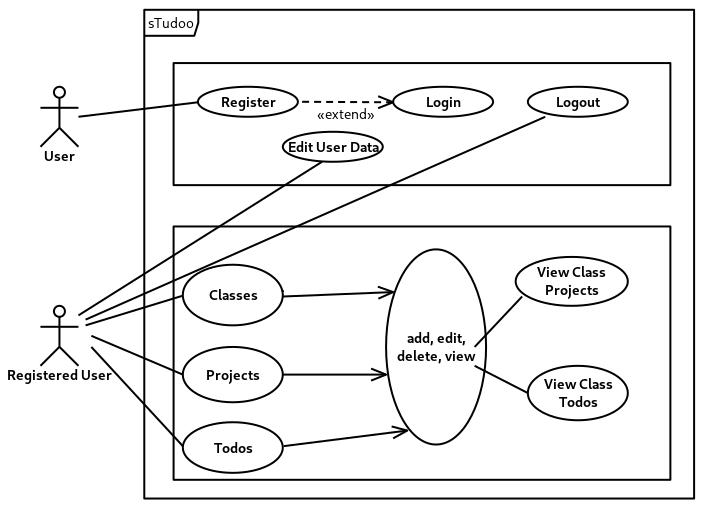
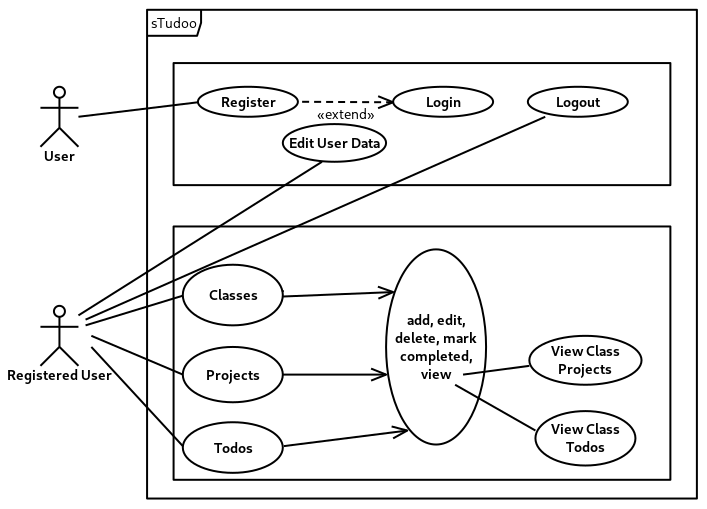
Change ucd image and add 'mark as completed'

diff --git a/docs/technical-docs/app-structure.md b/docs/technical-docs/app-structure.md
@@ -25,7 +25,14 @@ To get a big picture of the functions lets take a look at the use case diagram o
 
 ![Use Case Diagram of sTudoo](/diagrams/Studoo_Features.png)
 
-To use the full functionality it is is necessary for a user to register an login. After the registration an the login the user is able to add, edit, delete and view his classes, projects and todos.
+To use the full functionality it is necessary for a user to register an login. After the registration an the login the user is able to:
+-  add,
+-  edit,
+-  delete,
+-  mark as completed and
+-  view
+
+the **classes, projects and todos**.
 
 To stay focused the user can choose between different views:
 
